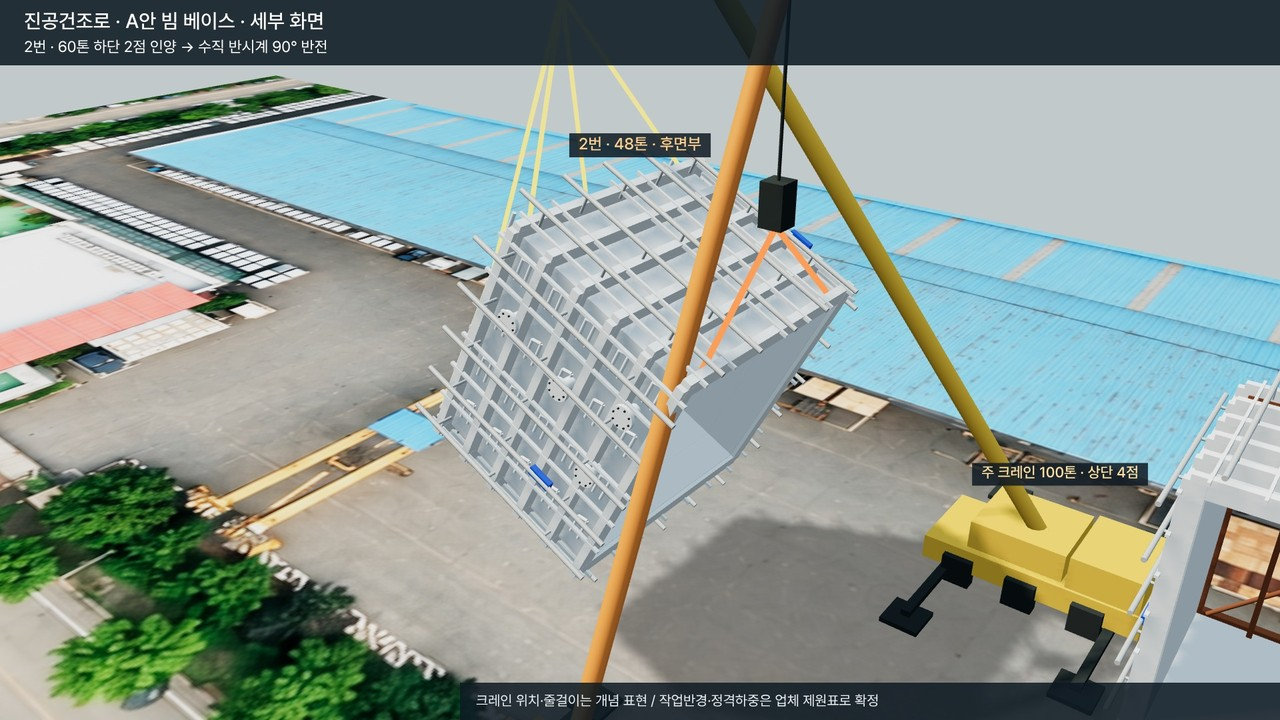
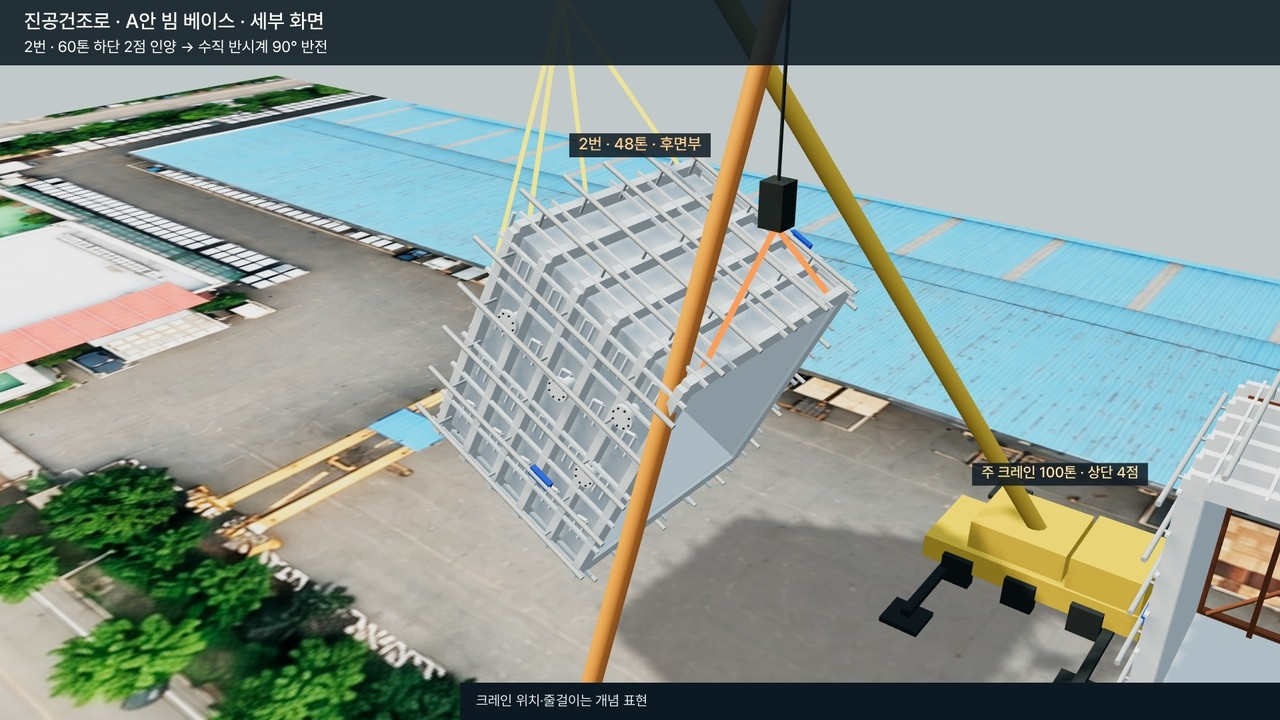
KKT: drop working-radius/rated-load note from video, stills, cover
Claude-Session: https://claude.ai/code/session_014v4o941zghHSMa9tRzfaqP

Changed region(s): [[0.375, 0.9472, 0.6875, 1.0], [0.7812, 0.9472, 1.0, 1.0]]

diff --git a/experiments/2026-10-12-kkt-drying-furnace-base/render/site-motion/site-motion2.html b/experiments/2026-10-12-kkt-drying-furnace-base/render/site-motion/site-motion2.html
@@ -227,7 +227,7 @@ window.renderFrame=function(TT){
   // 인셋 없음 (클로즈업 영상 별도)
  }
  ctx.fillStyle='rgba(13,25,34,.88)';ctx.fillRect(0,0,1920,98);ctx.fillStyle='#fff';ctx.textAlign='left';ctx.font=`500 30px ${FONT}`;ctx.fillText(`진공건조로 · ${PLAN==='A'?'A안 빔 베이스':'B안 조방 개조 + 전체 회전'} · ${VIEW==='closeup'?'세부 화면':VIEW==='side'?'우측 상부뷰':'현장 항공뷰'}`,36,42);ctx.font=`23px ${FONT}`;ctx.fillText(stage,36,78);
- ctx.fillStyle='rgba(13,25,34,.85)';ctx.fillRect(690,1024,1230,56);ctx.fillStyle='#e9eff2';ctx.textAlign='left';ctx.font=`21px ${FONT}`;ctx.fillText('크레인 위치·줄걸이는 개념 표현 / 작업반경·정격하중은 업체 제원표로 확정',714,1058);
+ ctx.fillStyle='rgb(13,25,34)';ctx.fillRect(690,1024,1230,56);ctx.fillStyle='#e9eff2';ctx.textAlign='left';ctx.font=`21px ${FONT}`;ctx.fillText('크레인 위치·줄걸이는 개념 표현',714,1058);
  return stage;
 };
 window.renderFrame(0);window.ready=true;

diff --git a/experiments/2026-10-12-kkt-drying-furnace-base/render/site-motion/cover.html b/experiments/2026-10-12-kkt-drying-furnace-base/render/site-motion/cover.html
@@ -80,7 +80,7 @@ table.toc td.sub{padding-left:8mm}
   <ul class="note">
     <li>견적 요약: A안(신규 베이스) 공급가액 71,692,000원, B안(조방 개조) 67,670,000원, 부가세 별도. 세부 산출은 견적서 참조.</li>
     <li>작업계획서의 공정 영상(A안·B안)은 별도 파일로 제공함.</li>
-    <li>인양 수치는 크레인 업체 제원표 확인 전 계획값임.</li>
+    <li>크레인 사양·배치는 크레인 업체와 협의해 확정함.</li>
   </ul>
 </div>
 </body></html>

diff --git a/experiments/2026-10-12-kkt-drying-furnace-base/render/site-motion/patchnote.py b/experiments/2026-10-12-kkt-drying-furnace-base/render/site-motion/patchnote.py
@@ -1,0 +1,13 @@
+import sys,glob,os
+from multiprocessing import Pool
+from PIL import Image,ImageDraw,ImageFont
+F=ImageFont.truetype('/root/.fonts/Pretendard-Regular.otf',21)
+def fix(p):
+    im=Image.open(p);d=ImageDraw.Draw(im)
+    d.rectangle((690,1024,1919,1079),fill=(13,25,34))
+    d.text((714,1058),'크레인 위치·줄걸이는 개념 표현',font=F,fill=(233,239,242),anchor='ls')
+    im.save(p,quality=93)
+if __name__=='__main__':
+    fs=[f for d in sys.argv[1:] for f in sorted(glob.glob(d+'/f_*.jpg'))]
+    with Pool(4) as pl: pl.map(fix,fs,chunksize=50)
+    print(len(fs))
